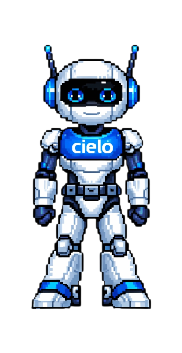
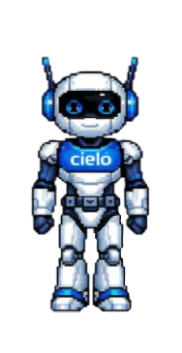
ajusta a sprite do marcielo

diff --git a/src/entities/player.js b/src/entities/player.js
@@ -9,25 +9,22 @@ export default class Player extends Phaser.Physics.Arcade.Sprite {
      */
     constructor(cena, x, y) {
 
-        // Chama o construtor da classe base informando a textura 'player'
-        super(cena, x, y, 'player');
+        // Agora o jogador já nasce com a imagem nova
+        super(cena, x, y, 'marcielo.parado.png');
 
-        // Adiciona o sprite à cena
         cena.add.existing(this);
-
-        // Habilita o corpo físico do jogador
         cena.physics.add.existing(this);
 
-        // Ajusta escala visual
         this.setScale(0.8);
-
-        // Define se o jogador colide com os limites do mundo
         this.setCollideWorldBounds(false);
 
-        // Velocidade base de movimentação
-        this.velocidade = 350;
+        this.body.setSize(120, 150);
+        this.body.setOffset(25, 150);
+        this.body.updateFromGameObject();
 
-        // Mapeamento das teclas WASD para movimentação
+        this.velocidade = 320;
+        this.ultimaDirecao = "baixo";
+
         this.teclas = this.scene.input.keyboard.addKeys({
             W: Phaser.Input.Keyboard.KeyCodes.W,
             A: Phaser.Input.Keyboard.KeyCodes.A,
@@ -35,180 +32,178 @@ export default class Player extends Phaser.Physics.Arcade.Sprite {
             D: Phaser.Input.Keyboard.KeyCodes.D
         });
 
-        // Cria animações associadas ao jogador
         this._criarAnimacoes(cena);
     }
 
     static preload(scene) {
-        scene.load.spritesheet('player', 'assets/marcielo.png', {
-            frameWidth: 128,
-            frameHeight: 128
-        });
-    
+        // Se você não usa mais a spritesheet antiga, pode remover isso:
+        // scene.load.spritesheet('player', 'assets/marcielo.png', {
+        //     frameWidth: 128,
+        //     frameHeight: 128
+        // });
+
         // animação lateral
-        scene.load.image("f1","assets/animations/player/marcielo.f1.png");
-        scene.load.image("f2","assets/animations/player/marcielo.f2.png");
-        scene.load.image("f3","assets/animations/player/marcielo.f3.png");
-        scene.load.image("f4","assets/animations/player/marcielo.f4.png");
-        scene.load.image("f5","assets/animations/player/marcielo.f5.png");
-        scene.load.image("f6","assets/animations/player/marcielo.f6.png");
-        scene.load.image("f7","assets/animations/player/marcielo.f7.png");
-        scene.load.image("f8","assets/animations/player/marcielo.f8.png");
+        scene.load.image("f1", "assets/animations/player/marcielo.f1.png");
+        scene.load.image("f2", "assets/animations/player/marcielo.f2.png");
+        scene.load.image("f3", "assets/animations/player/marcielo.f3.png");
+        scene.load.image("f4", "assets/animations/player/marcielo.f4.png");
+        scene.load.image("f5", "assets/animations/player/marcielo.f5.png");
+        scene.load.image("f6", "assets/animations/player/marcielo.f6.png");
+        scene.load.image("f7", "assets/animations/player/marcielo.f7.png");
+        scene.load.image("f8", "assets/animations/player/marcielo.f8.png");
 
         // animação para baixo
-        scene.load.image("s1","assets/animations/player/marcielo.s1.png");
-        scene.load.image("s2","assets/animations/player/marcielo.s2.png");
-        scene.load.image("s3","assets/animations/player/marcielo.s3.png");
-        scene.load.image("s4","assets/animations/player/marcielo.s4.png");
-        scene.load.image("s5","assets/animations/player/marcielo.s5.png");
-        scene.load.image("s6","assets/animations/player/marcielo.s6.png");
+        scene.load.image("s1", "assets/animations/player/marcielo.s1.png");
+        scene.load.image("s2", "assets/animations/player/marcielo.s2.png");
+        scene.load.image("s3", "assets/animations/player/marcielo.s3.png");
+        scene.load.image("s4", "assets/animations/player/marcielo.s4.png");
+        scene.load.image("s5", "assets/animations/player/marcielo.s5.png");
+        scene.load.image("s6", "assets/animations/player/marcielo.s6.png");
 
         // parado
-        scene.load.image("idle","assets/animations/player/marcielo.parado.png");
+        scene.load.image("idle", "assets/animations/player/marcielo.parado.png");
 
         // animação para cima
-        scene.load.image("c1","assets/animations/player/marcielo.c1.png");
-        scene.load.image("c2","assets/animations/player/marcielo.c2.png");
-        scene.load.image("c3","assets/animations/player/marcielo.c3.png");
-        scene.load.image("c4","assets/animations/player/marcielo.c4.png");
-        scene.load.image("c5","assets/animations/player/marcielo.c5.png");
-        scene.load.image("c6","assets/animations/player/marcielo.c6.png");
+        scene.load.image("c1", "assets/animations/player/marcielo.c1.png");
+        scene.load.image("c2", "assets/animations/player/marcielo.c2.png");
+        scene.load.image("c3", "assets/animations/player/marcielo.c3.png");
+        scene.load.image("c4", "assets/animations/player/marcielo.c4.png");
+        scene.load.image("c5", "assets/animations/player/marcielo.c5.png");
+        scene.load.image("c6", "assets/animations/player/marcielo.c6.png");
     }
 
-    /**
-     * Método chamado a cada frame pela cena
-     */
     update() {
         this._movimentar();
     }
 
-    /**
-     * Controla a movimentação do jogador com normalização de vetor,
-     * evitando que o movimento diagonal seja mais rápido.
-     */
     _movimentar() {
-
-        // Reseta velocidade a cada frame
         this.setVelocity(0);
 
         let movendo = false;
-
-        // Vetor de direção [x, y]
         let forca = [0, 0];
 
-        // Movimentação horizontal
-        if (this.teclas.A.isDown) {
+        const esquerda = this.teclas.A.isDown;
+        const direita = this.teclas.D.isDown;
+        const cima = this.teclas.W.isDown;
+        const baixo = this.teclas.S.isDown;
+        
+
+        // eixo horizontal
+        if (esquerda) {
             forca[0] = -1;
-            this.anims.play("andar-esquerda", true);
             movendo = true;
-        }
-
-        if (this.teclas.D.isDown) {
+        } else if (direita) {
             forca[0] = 1;
-            this.anims.play("andar-direita", true);
             movendo = true;
         }
 
-        // Movimentação vertical
-        if (this.teclas.W.isDown) {
+        // eixo vertical
+        if (cima) {
             forca[1] = -1;
-            this.anims.play("andar-cima", true);
             movendo = true;
-        }
-
-        if (this.teclas.S.isDown) {
+        } else if (baixo) {
             forca[1] = 1;
-            this.anims.play("andar-baixo", true);
             movendo = true;
         }
 
-        // Calcula o módulo do vetor para normalizar
         const modulo = Math.sqrt(forca[0] * forca[0] + forca[1] * forca[1]);
 
-        // Normalização do vetor (evita velocidade maior na diagonal)
         if (modulo > 0) {
             forca[0] /= modulo;
             forca[1] /= modulo;
         }
 
-        // Aplica velocidade ao vetor normalizado
         forca[0] *= this.velocidade;
         forca[1] *= this.velocidade;
 
-        // Define velocidade final no corpo físico
         this.setVelocity(forca[0], forca[1]);
 
-        // Se não estiver se movendo, para a animação
-        if (!movendo) {
+        // escolha da animação
+        if (movendo) {
+            // prioridade para animação horizontal quando estiver na diagonal
+             if (esquerda) {
+                this.setFlipX(true);
+                this.anims.play("andar-direita", true);
+                this.ultimaDirecao = "esquerda";
+            }
+            else if (direita) {
+                this.setFlipX(false);
+                this.anims.play("andar-direita", true);
+                this.ultimaDirecao = "direita";
+            }
+            else if (cima) {
+                this.setFlipX(false);
+                this.anims.play("andar-cima", true);
+                this.ultimaDirecao = "cima";
+            }
+            else if (baixo) {
+                this.setFlipX(false);
+                this.anims.play("andar-baixo", true);
+                this.ultimaDirecao = "baixo";
+            }
+        } else {
             this.anims.stop();
+
+            if (this.ultimaDirecao === "esquerda") {
+                this.setTexture("idle");
+                this.setFlipX(true);
+            } else {
+                this.setTexture("idle");
+                this.setFlipX(false);
+            }
         }
     }
 
-    /**
-     * Cria animações do jogador associadas às direções.
-     * As animações são registradas no Animation Manager da cena.
-     */
     _criarAnimacoes(cena) {
+        if (!cena.anims.exists("andar-direita")) {
+            cena.anims.create({
+                key: "andar-direita",
+                frames: [
+                    { key: "f1" },
+                    { key: "f2" },
+                    { key: "f3" },
+                    { key: "f4" },
+                    { key: "f5" },
+                    { key: "f6" },
+                    { key: "f7" },
+                    { key: "f8" }
+                ],
+                frameRate: 6,
+                repeat: -1
+            });
+        }
 
-        cena.anims.create({
-            key: "andar-direita",
-            frames: [
-            {key:"f1"},
-            {key:"f2"},
-            {key:"f3"},
-            {key:"f4"},
-            {key:"f5"},
-            {key:"f6"},
-            {key:"f7"},
-            {key:"f8"}
-        ],
-        frameRate: 6,
-        repeat: -1
-        });
+        if (!cena.anims.exists("andar-cima")) {
+            cena.anims.create({
+                key: "andar-cima",
+                frames: [
+                    { key: "c1" },
+                    { key: "c2" },
+                    { key: "c3" },
+                    { key: "c4" },
+                    { key: "c5" },
+                    { key: "c6" }
+                ],
+                frameRate: 5,
+                repeat: -1
+            });
+        }
 
-        cena.anims.create({
-            key: "andar-esquerda",
-            frames: [
-            {key:"f1"},
-            {key:"f2"},
-            {key:"f3"},
-            {key:"f4"},
-            {key:"f5"},
-            {key:"f6"},
-            {key:"f7"},
-            {key:"f8"}
-        ],
-        frameRate: 6,
-        repeat: -1
-        });
-    
-
-        cena.anims.create({
-            key: "andar-cima",
-            frames: [
-        { key: "c1" },
-        { key: "c2" },
-        { key: "c3" },
-        { key: "c4" },
-        { key: "c5" },
-        { key: "c6" }
-    ],
-    frameRate: 5,
-    repeat: -1
-        });
-
-        cena.anims.create({
-            key: "andar-baixo",
-            frames: [
-            {key:"s1"},
-            {key:"s2"},
-            {key:"s3"},
-            {key:"s4"},
-            {key:"s5"},
-            {key:"s6"}
-        ],
-        frameRate: 5,
-        repeat: -1
-        });
+        if (!cena.anims.exists("andar-baixo")) {
+            cena.anims.create({
+                key: "andar-baixo",
+                frames: [
+                    { key: "s1" },
+                    { key: "s2" },
+                    { key: "s3" },
+                    { key: "s4" },
+                    { key: "s5" },
+                    { key: "s6" }
+                ],
+                frameRate: 5,
+                repeat: -1
+            });
+        }
+        
     }
 }
